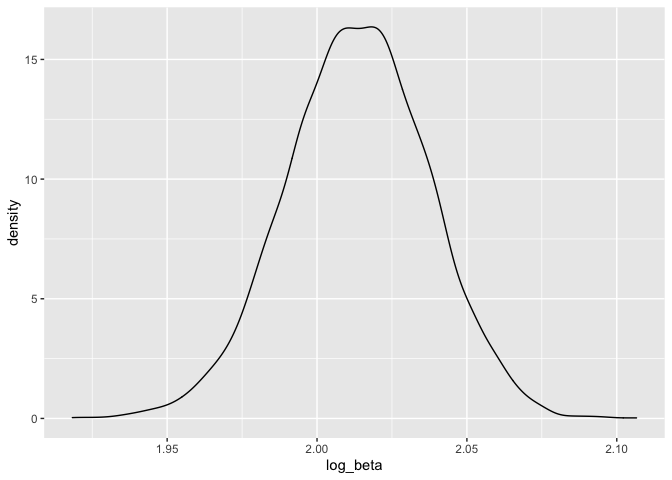
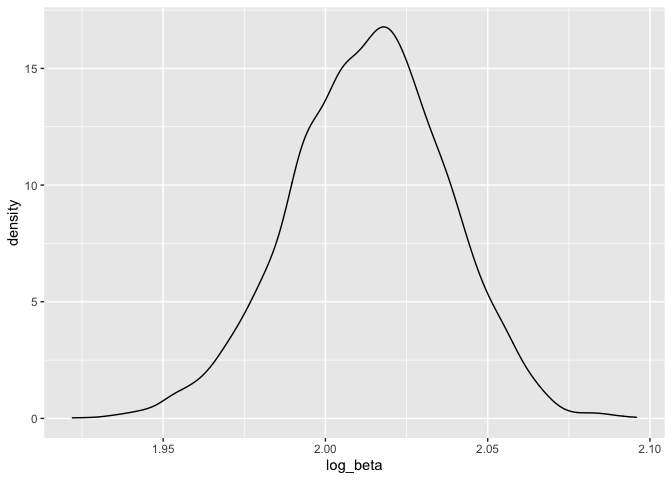
Fixed typos

diff --git a/p8105_hw6_yz4183.md b/p8105_hw6_yz4183.md
@@ -119,7 +119,7 @@ variables, wtgain, ppwt, delwt and mheight, there are no visible linear
 relationships between the each of them and the response variable.
 
 I also made four boxplots to see the distributions of baby’s birth
-weight by the four categorical variables.
+weight among each levels in the four categorical variables.
 
 ``` r
 p5 = 
@@ -150,7 +150,7 @@ p5 + p6 + p7 + p8
 From these plots, we can see the distributions of baby’s birth weight
 among different levels in each categorical seems to be similar.
 
-Since from the plots, it’s not obvious which predictors have a linear
+Since from the plots it’s not obvious which predictors have a linear
 relationship with the response variable, I chose to perform a forward
 stepwise model selection by AIC to fit my linear model.
 
@@ -444,7 +444,15 @@ cv_fit_df=
     rmse_main_eff_mod = map2_dbl(.x = main_eff_mod, .y = test, ~rmse(model = .x, data = .y)),
     rmse_interc_mod = map2_dbl(.x = interc_mod, .y = test, ~rmse(model = .x, data = .y)),
   )
+```
 
+    ## Warning in predict.lm(model, data): prediction from a rank-deficient fit may be
+    ## misleading
+
+    ## Warning in predict.lm(model, data): prediction from a rank-deficient fit may be
+    ## misleading
+
+``` r
 cv_fit_df %>% 
   select(starts_with("rmse")) %>% 
   pivot_longer(
@@ -488,7 +496,7 @@ weather_df =
     ## file min/max dates: 1869-01-01 / 2021-10-31
 
 Use 5000 bootstrap samples and for each sample produce estimates of
-adjusted $\\hat{r^2}$ and log(*β̂*<sub>0</sub> \* *β̂*<sub>1</sub>)
+$\\hat{r^2}$ and log(*β̂*<sub>0</sub> \* *β̂*<sub>1</sub>)
 
 ``` r
 weather_bootstrap_results = 
@@ -540,7 +548,7 @@ quantile(betas_df$log_beta, c(.025, 0.975))
 ```
 
     ##     2.5%    97.5% 
-    ## 1.965811 2.059462
+    ## 1.964499 2.058011
 
 The 95% confidence interal for log(*β̂*<sub>0</sub> \* *β̂*<sub>1</sub>)
 is (1.96, 2.05).
@@ -565,6 +573,6 @@ quantile(rsquare_df$r.squared, c(.025, 0.975))
 ```
 
     ##      2.5%     97.5% 
-    ## 0.8936858 0.9272085
+    ## 0.8935259 0.9274892
 
 The 95% confidence interal for $\\hat{r^2}$ is (0.89, 0.92).
